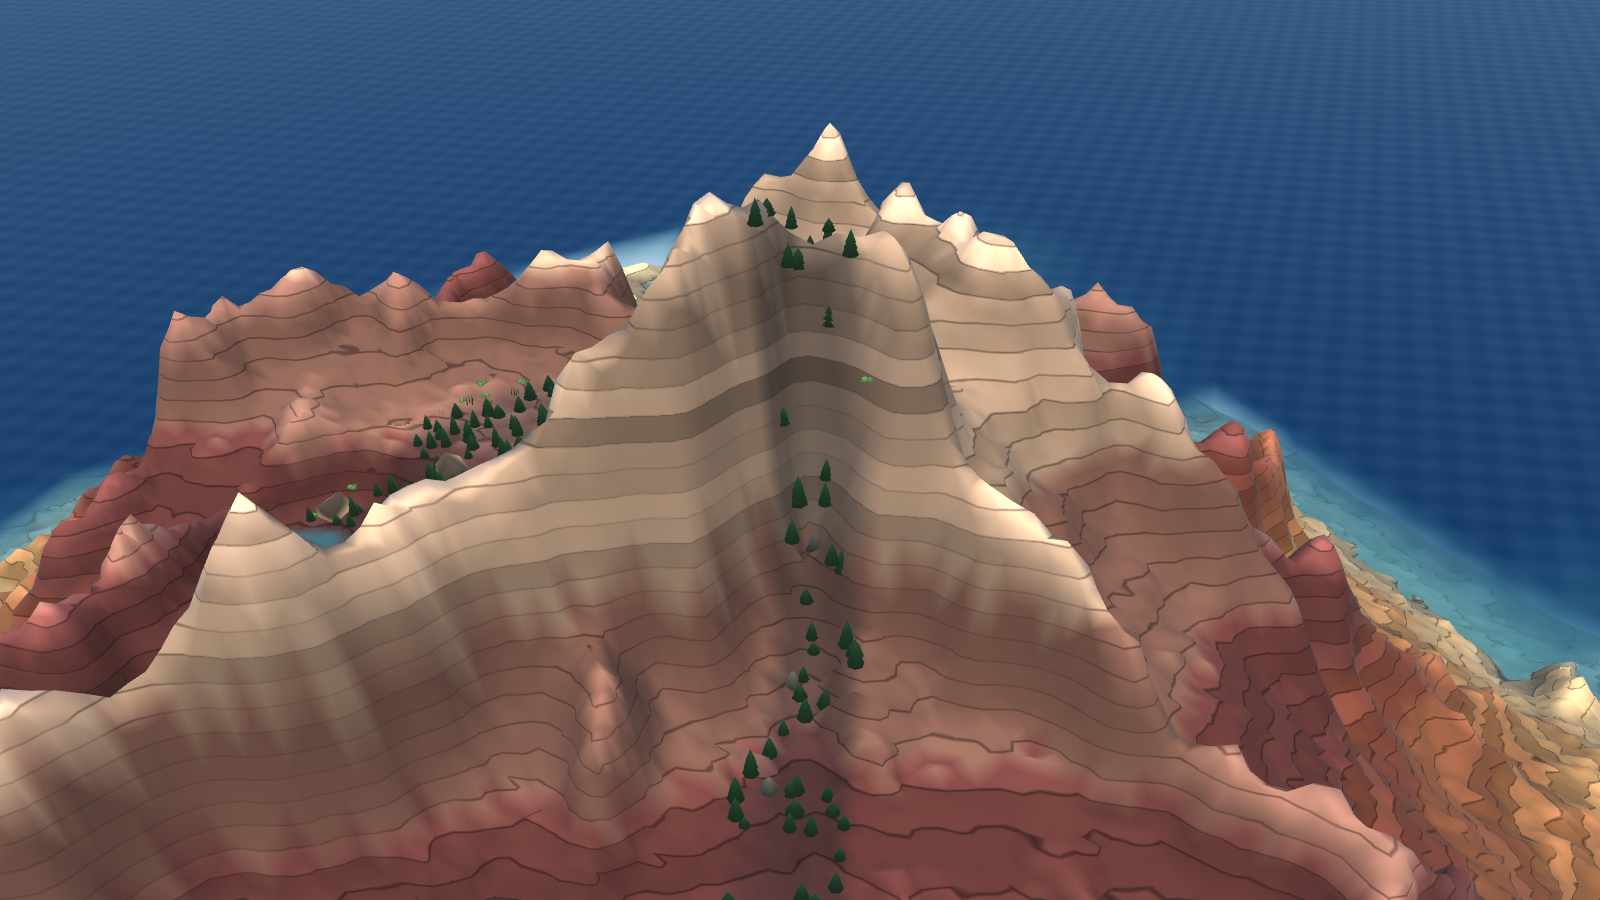
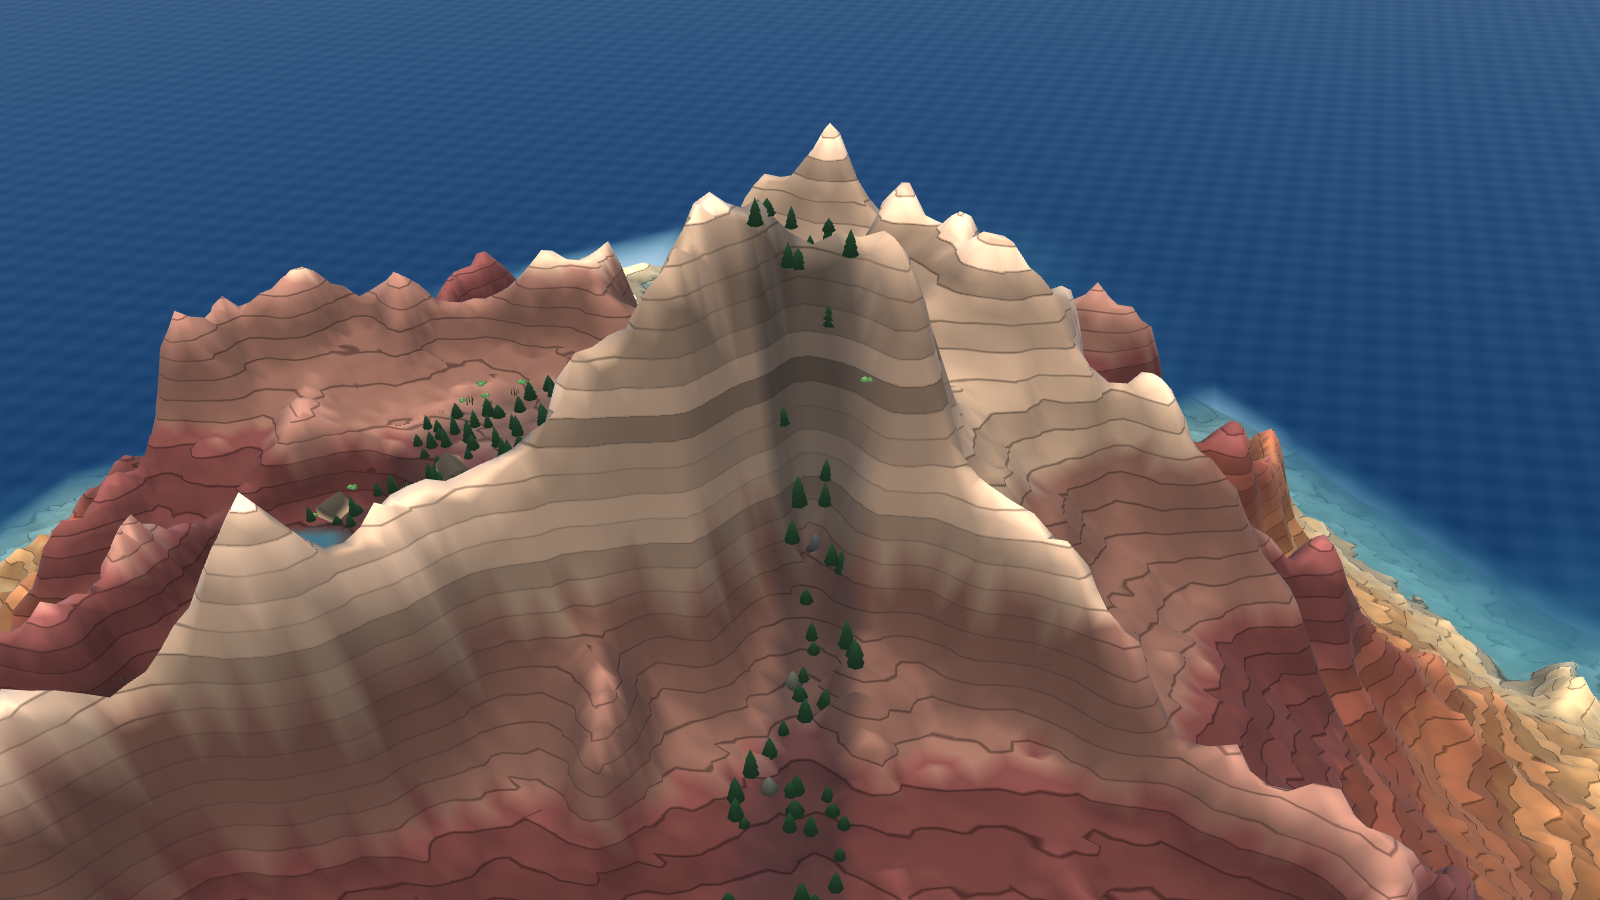
feat(world): the sun moves, and the sea knows what time it is
The light was one fixed directional at Euler(46, 35, 0), set once at boot and
never touched, so every session of every day looked identical - in a game
whose entire premise is a world that carries time in it.

DayCycle is plain C# with no MonoBehaviour, so the capture tool can ask for
any hour and the result is checkable from a terminal. That was the whole
argument for doing this loop out of order: it is the only item in this batch I
can prove. Four hours are archived in docs/shots.

Two choices worth stating. Elevation peaks at 62 degrees rather than 90,
because a sun directly overhead lights every face equally and erases exactly
the strata terracing this game spends all its shading on. And time of day
comes from the player's LOCAL clock rather than the seed, so opening the game
in the evening opens it at evening - free, needs no content, and it is what
makes a world feel like a place. The Daily overrides it to a fixed hour
because everyone competing on one seed must see the same mountain.

Three things the renders caught that reasoning had not:

1. Warm orange does not survive as a flat sky. The camera clear colour is a
   single fill, and a dusk-orange one made the whole top of the screen muddy
   brown. The warmth of a low sun belongs on the LIGHT, where it falls across
   the terracing and reads as morning; the sky stays a plausible flat tone at
   every hour.

2. The sea did not darken at night. The water shader is unlit by design - its
[…]

diff --git a/Assets/Scripts/World/DayCycle.cs b/Assets/Scripts/World/DayCycle.cs
@@ -1,0 +1,114 @@
+using System;
+using UnityEngine;
+
+namespace Rill.World
+{
+    /// <summary>
+    /// Where the sun is, and what colour the light and the sky are, at a given hour.
+    ///
+    /// The light was one fixed directional at Euler(46, 35, 0), set once at boot and never touched,
+    /// so every session of every day looked identical — in a game whose entire premise is a world
+    /// that carries time in it.
+    ///
+    /// Time of day comes from the player's LOCAL clock rather than from the seed, so playing in the
+    /// evening looks like evening. That costs nothing, needs no content, and is the kind of detail
+    /// that makes a world feel like a place rather than a level. The Daily is the exception: it has
+    /// to look identical for everyone competing on it, so it asks for a fixed hour.
+    ///
+    /// Plain C# with no MonoBehaviour, so the capture tool can ask for any hour it likes and the
+    /// smoke test can assert on the numbers.
+    /// </summary>
+    public struct SkyState
+    {
+        public Quaternion SunRotation;
+        public Color SunColor;
+        public float SunIntensity;
+        public Color Ambient;
+        public Color Sky;
+        /// <summary>0 at solar noon, 1 in the deepest part of the night. Drives anything nocturnal.</summary>
+        public float Night01;
+
+        /// <summary>
+        /// Multiplier for surfaces that do their own lighting and would otherwise ignore the sun.
+        /// The water is unlit by design — its colour comes from depth, not from a normal — so at
+        /// night the sea stayed full daytime blue against a mountain that had gone dark. Rendered
+        /// and corrected; this is what the water shader multiplies by.
+        /// </summary>
+        public Color SurfaceTint;
+    }
+
+    public static class DayCycle
+    {
+        /// <summary>The hour the Daily is always lit at, so every player sees the same mountain.</summary>
+        public const float DailyHour = 9.5f;
+
+        public static float HourOf(DateTime local) => local.Hour + local.Minute / 60f;
+
+        public static float LocalHour() => HourOf(DateTime.Now);
+
+        /// <summary>
+        /// The sky at a given hour, 0..24.
+        ///
+        /// Elevation is a cosine peaking at 13:00 rather than 12:00 — an afternoon sun reads better
+        /// than a noon one, because a sun directly overhead flattens exactly the strata relief this
+        /// game spends all its shading on. It never quite reaches vertical for the same reason.
+        /// </summary>
+        public static SkyState At(float hour)
+        {
+            hour = Mathf.Repeat(hour, 24f);
+
+            // -1 at midnight, +1 at 13:00.
+            float t = Mathf.Cos((hour - 13f) / 24f * Mathf.PI * 2f);
+
+            // Height of the sun above the horizon, in degrees. Peaks at 62 and not 90: an overhead
+            // sun would light every face equally and erase the terracing.
+            float elevation = t * 62f;
+
+            // The sun swings through the sky rather than sitting at one compass bearing, or the
+            // shadows would only ever get longer and never move.
+            float azimuth = 35f + (hour - 13f) / 24f * 360f * 0.55f;
+
+            // Day 1, night 0. The band is deliberately wide — it used to run from -8° to +12°,
+            // which is about half an hour of real time, so 19:30 rendered identically to midnight
+            // and dusk did not exist as a state at all. Rendered both and they were the same
+            // picture. Twilight is the best-looking part of a day and it needs room.
+            float day = Mathf.SmoothStep(0f, 1f, Mathf.InverseLerp(-16f, 10f, elevation));
+
+            var noonSun = new Color(1f, 0.96f, 0.89f);
+            var lowSun = new Color(1f, 0.72f, 0.45f);     // warm and horizontal, at either end
+            var nightSun = new Color(0.42f, 0.52f, 0.78f); // moonlight, cold and weak
+
+            // How close the sun is to the horizon, which is what makes light go orange.
+            float low = 1f - Mathf.Clamp01(Mathf.Abs(elevation) / 40f);
+            Color sunColor = Color.Lerp(noonSun, lowSun, low * 0.85f);
+            sunColor = Color.Lerp(nightSun, sunColor, day);
+
+            // The sky is a flat clear colour, not a gradient, and warm orange does not survive
+            // that: at dawn the whole top of the screen came out one muddy brown. The warmth of a
+            // low sun belongs on the LIGHT, where it falls across the terracing and reads as
+            // morning; the flat fill stays a plausible sky at every hour. Rendered and corrected.
+            var noonSky = new Color(0.72f, 0.82f, 0.92f);
+            var duskSky = new Color(0.63f, 0.62f, 0.74f);   // washed violet, not orange
+            var nightSky = new Color(0.05f, 0.08f, 0.15f);
+            Color sky = Color.Lerp(noonSky, duskSky, low * 0.75f);
+            sky = Color.Lerp(nightSky, sky, day);
+
+            var noonAmbient = new Color(0.42f, 0.46f, 0.55f);
+            var nightAmbient = new Color(0.10f, 0.13f, 0.22f);
+            Color ambient = Color.Lerp(nightAmbient, noonAmbient, day);
+
+            return new SkyState
+            {
+                // Negative elevation keeps the light below the horizon at night, so the mountain is
+                // lit from beneath by almost nothing rather than from above by a blue sun.
+                SunRotation = Quaternion.Euler(Mathf.Max(elevation, 2f), azimuth, 0f),
+                SunColor = sunColor,
+                SunIntensity = Mathf.Lerp(0.18f, 1.05f, day),
+                Ambient = ambient,
+                Sky = sky,
+                SurfaceTint = Color.Lerp(new Color(0.26f, 0.32f, 0.46f), Color.white, day),
+                Night01 = 1f - day
+            };
+        }
+    }
+}

diff --git a/Assets/Editor/RillCapture.cs b/Assets/Editor/RillCapture.cs
@@ -40,6 +40,8 @@ namespace Rill.EditorTools
         const int Width = 1600;
         const int Height = 900;
 
+        static Color _skyColor = new Color(0.72f, 0.82f, 0.92f);
+
         [MenuItem("RILL/Capture Mountain PNG (24 runs)", false, 41)]
         public static void Capture() { Shoot(24); }
 
@@ -102,7 +104,8 @@ namespace Rill.EditorTools
                 revelation.BakeStaticRenderers(revGo.transform);
 
                 BuildSea(root.transform, world, waterMat);
-                BuildSun(root.transform);
+                var sun = BuildSun(root.transform);
+                _skyColor = ApplyHour(sun, 13f);
 
                 string dir = Path.GetFullPath(Path.Combine(Application.dataPath, "..", "docs", "shots"));
                 Directory.CreateDirectory(dir);
@@ -142,6 +145,16 @@ namespace Rill.EditorTools
                            village, 42f, 20f, 30f, 40f);
                 else
                     Debug.Log("[RILL] capture: no settlement yet, village framing skipped");
+
+                // The whole reason day/night was done early: it is the one thing in this batch that
+                // can be checked from a terminal. Three hours, same mountain, same framing.
+                foreach (var h in new[] { 7f, 13f, 19.5f, 23f })
+                {
+                    _skyColor = ApplyHour(sun, h);
+                    Render(world, Path.Combine(dir, string.Format("hour_{0:00}.png", Mathf.RoundToInt(h))),
+                           summit, extent * 0.85f, extent * 0.6f, 30f, 48f);
+                }
+                _skyColor = ApplyHour(sun, 13f);
 
                 Debug.Log("[RILL] capture: done, PNGs in " + dir);
             }
@@ -227,7 +240,7 @@ namespace Rill.EditorTools
             var camGo = new GameObject("CaptureCamera");
             var cam = camGo.AddComponent<Camera>();
             cam.clearFlags = CameraClearFlags.SolidColor;
-            cam.backgroundColor = new Color(0.72f, 0.82f, 0.92f);
+            cam.backgroundColor = _skyColor;
             cam.fieldOfView = fov;
             cam.nearClipPlane = 0.5f;
             cam.farClipPlane = 2000f;
@@ -270,20 +283,29 @@ namespace Rill.EditorTools
             }
         }
 
-        static void BuildSun(Transform parent)
+        static Light BuildSun(Transform parent)
         {
             var go = new GameObject("Sun");
             go.transform.SetParent(parent, false);
             var light = go.AddComponent<Light>();
             light.type = LightType.Directional;
-            light.color = new Color(1f, 0.96f, 0.89f);
-            light.intensity = 1.05f;
             light.shadows = LightShadows.None;
-            go.transform.rotation = Quaternion.Euler(46f, 35f, 0f);
 
             RenderSettings.ambientMode = UnityEngine.Rendering.AmbientMode.Flat;
-            RenderSettings.ambientLight = new Color(0.42f, 0.46f, 0.55f);
             RenderSettings.fog = false;
+            return light;
+        }
+
+        /// <summary>Puts the scene at an hour of the day. Returns the sky colour for the camera.</summary>
+        static Color ApplyHour(Light sun, float hour)
+        {
+            var sky = DayCycle.At(hour);
+            sun.transform.rotation = sky.SunRotation;
+            sun.color = sky.SunColor;
+            sun.intensity = sky.SunIntensity;
+            RenderSettings.ambientLight = sky.Ambient;
+            Shader.SetGlobalColor("_RillDayTint", sky.SurfaceTint);
+            return sky.Sky;
         }
 
         /// <summary>The same subdivided sea GameBootstrap builds — a flat quad renders as one tone.</summary>

diff --git a/Assets/Scripts/World/SkyDriver.cs b/Assets/Scripts/World/SkyDriver.cs
@@ -1,0 +1,88 @@
+using UnityEngine;
+
+namespace Rill.World
+{
+    /// <summary>
+    /// Applies <see cref="DayCycle"/> to the live scene: the sun's angle and colour, the ambient,
+    /// the camera's sky, and the global tint that unlit surfaces multiply by.
+    ///
+    /// Follows the player's local clock, so opening the game in the evening opens it at evening.
+    /// The Daily overrides that with a fixed hour, because everybody competing on the same seed has
+    /// to be looking at the same mountain.
+    /// </summary>
+    public sealed class SkyDriver : MonoBehaviour
+    {
+        public Light Sun;
+        public Camera Cam;
+
+        /// <summary>Set while the Daily is being played, so every player sees identical light.</summary>
+        public bool UseFixedHour;
+        public float FixedHour = DayCycle.DailyHour;
+
+        /// <summary>
+        /// How fast the applied sky chases the target. Not instant: switching to the Daily and back
+        /// would otherwise snap the whole world between two lightings in one frame, which reads as
+        /// a glitch rather than as time passing.
+        /// </summary>
+        public float Damping = 2.5f;
+
+        SkyState _shown;
+        bool _primed;
+
+        /// <summary>Seconds between recomputes. The sun moves 15° an hour; four times a second is
+        /// four hundred times more often than anyone could notice, and it is still nothing.</summary>
+        const float RecomputeInterval = 0.25f;
+        float _timer;
+        SkyState _target;
+
+        void Start()
+        {
+            _target = Compute();
+            _shown = _target;
+            _primed = true;
+            Apply(_shown);
+        }
+
+        void Update()
+        {
+            _timer -= Time.deltaTime;
+            if (_timer <= 0f)
+            {
+                _timer = RecomputeInterval;
+                _target = Compute();
+            }
+            if (!_primed) return;
+
+            float k = 1f - Mathf.Exp(-Damping * Time.deltaTime);
+            _shown.SunRotation = Quaternion.Slerp(_shown.SunRotation, _target.SunRotation, k);
+            _shown.SunColor = Color.Lerp(_shown.SunColor, _target.SunColor, k);
+            _shown.SunIntensity = Mathf.Lerp(_shown.SunIntensity, _target.SunIntensity, k);
+            _shown.Ambient = Color.Lerp(_shown.Ambient, _target.Ambient, k);
+            _shown.Sky = Color.Lerp(_shown.Sky, _target.Sky, k);
+            _shown.SurfaceTint = Color.Lerp(_shown.SurfaceTint, _target.SurfaceTint, k);
+            _shown.Night01 = Mathf.Lerp(_shown.Night01, _target.Night01, k);
+            Apply(_shown);
+        }
+
+        SkyState Compute()
+        {
+            return DayCycle.At(UseFixedHour ? FixedHour : DayCycle.LocalHour());
+        }
+
+        void Apply(SkyState s)
+        {
+            if (Sun != null)
+            {
+                Sun.transform.rotation = s.SunRotation;
+                Sun.color = s.SunColor;
+                Sun.intensity = s.SunIntensity;
+            }
+            RenderSettings.ambientLight = s.Ambient;
+            if (Cam != null) Cam.backgroundColor = s.Sky;
+
+            // Water is unlit — its colour comes from depth rather than from a normal — so without
+            // this the sea stays full daytime blue at midnight beside a mountain that has gone dark.
+            Shader.SetGlobalColor("_RillDayTint", s.SurfaceTint);
+        }
+    }
+}

diff --git a/Assets/Scripts/App/GameBootstrap.cs b/Assets/Scripts/App/GameBootstrap.cs
@@ -30,6 +30,7 @@ namespace Rill.App
 
         public RillWorld World { get; private set; }
         public RunController Runner { get; private set; }
+        public SkyDriver Sky { get; private set; }
 
         Material _terrainMat, _ribbonMat, _waterMat, _propMat, _dropletMat;
         RillCamera _camera;
@@ -50,6 +51,11 @@ namespace Rill.App
 
             BuildLighting();
             var cam = BuildCamera();
+
+            var sky = gameObject.AddComponent<SkyDriver>();
+            sky.Sun = _sun;
+            sky.Cam = cam;
+            Sky = sky;
             var terrain = BuildTerrain();
             var pooled = BuildPooledWater();
             BuildSea();
@@ -91,7 +97,8 @@ namespace Rill.App
             Runner.PropMaterial = _propMat;
             Runner.PendingBonusVolume = RainGatheredWhileAway(almanac);
 
-            Runner.Initialise(World, almanac, daily, archive, player, confluence, _weather);
+            Runner.Sky = Sky;
+            Runner.Initialise(World, almanac, daily, archive, player, confluence, _weather, SaveSlot);
 
             // First keyframe so even a brand-new mountain has a time-lapse to grow from.
             if (!archive.Exists) archive.Append(World.Field, World.RunNumber);
@@ -173,17 +180,18 @@ namespace Rill.App
         {
             var go = new GameObject("Sun");
             go.transform.SetParent(transform, false);
-            var light = go.AddComponent<Light>();
-            light.type = LightType.Directional;
-            light.color = new Color(1f, 0.96f, 0.89f);
-            light.intensity = 1.05f;
-            light.shadows = LightShadows.None;   // the strata carry the form; shadows cost frames
-            go.transform.rotation = Quaternion.Euler(46f, 35f, 0f);
+            _sun = go.AddComponent<Light>();
+            _sun.type = LightType.Directional;
+            _sun.shadows = LightShadows.None;   // the strata carry the form; shadows cost frames
 
+            // Colour, angle, intensity, ambient and sky all come from SkyDriver now. They used to be
+            // four constants set once here and never touched again, so every session of every day
+            // looked identical in a game whose premise is a world that carries time in it.
             RenderSettings.ambientMode = UnityEngine.Rendering.AmbientMode.Flat;
-            RenderSettings.ambientLight = new Color(0.42f, 0.46f, 0.55f);
             RenderSettings.fog = false;
         }
+
+        Light _sun;
 
         Camera BuildCamera()
         {

diff --git a/tools/unity-stub/UnityStub.cs b/tools/unity-stub/UnityStub.cs
@@ -101,6 +101,7 @@ namespace UnityEngine
 
     public struct Quaternion
     {
+        public static Quaternion Slerp(Quaternion a, Quaternion b, float t) { return a; }
         public static Quaternion identity { get { return new Quaternion(); } }
         public static Quaternion Euler(float x, float y, float z) { return new Quaternion(); }
         public static Quaternion Euler(Vector3 v) { return new Quaternion(); }
@@ -150,6 +151,7 @@ namespace UnityEngine
         public static int Clamp(int v, int a, int b) { return 0; }
         public static float Clamp01(float v) { return 0f; }
         public static float Lerp(float a, float b, float t) { return 0f; }
+        public static float InverseLerp(float a, float b, float v) { return 0f; }
         public static float SmoothStep(float a, float b, float t) { return 0f; }
         public static float MoveTowards(float a, float b, float d) { return 0f; }
         public static int RoundToInt(float v) { return 0; }
@@ -289,6 +291,8 @@ namespace UnityEngine
     public class Shader : Object
     {
         public static Shader Find(string name) { return null; }
+        public static void SetGlobalColor(string name, Color value) { }
+        public static void SetGlobalFloat(string name, float value) { }
     }
 
     public class Material : Object

diff --git a/Assets/Scripts/Flow/RunController.cs b/Assets/Scripts/Flow/RunController.cs
@@ -33,6 +33,7 @@ namespace Rill.Flow
         public SplashFX Fx;
         public HudController Hud;
         public FlowAudio Audio;
+        public SkyDriver Sky;
 
         [Header("Cadence")]
         public int TimeLapseEveryRuns = 3;
@@ -834,6 +835,7 @@ namespace Rill.Flow
             if (InDaily)
             {
                 InDaily = false;
+                if (Sky != null) Sky.UseFixedHour = false;
                 RebindRenderers(Home, _homeLife);
                 EnterIdle();
                 return;
@@ -843,6 +845,9 @@ namespace Rill.Flow
             _homeLife = Ecosystem.LifeField;
             var dailyWorld = RillWorld.Create(Config, _daily.Seed, Config.Biome);
             InDaily = true;
+            // Everyone competing on the same seed has to be looking at the same mountain, so the
+            // Daily is lit at a fixed hour rather than by the player's clock.
+            if (Sky != null) { Sky.UseFixedHour = true; Sky.FixedHour = DayCycle.DailyHour; }
             RebindRenderers(dailyWorld, new float[dailyWorld.Field.Count]);
             EnterIdle();
         }
